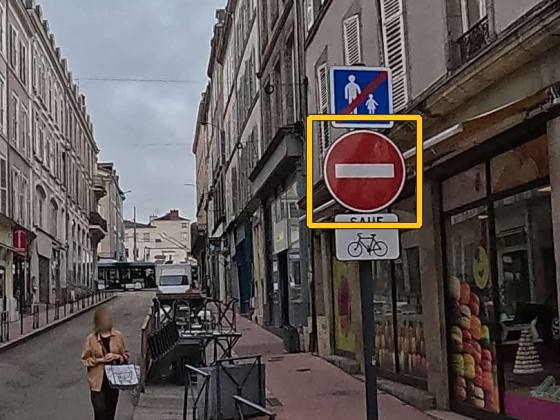
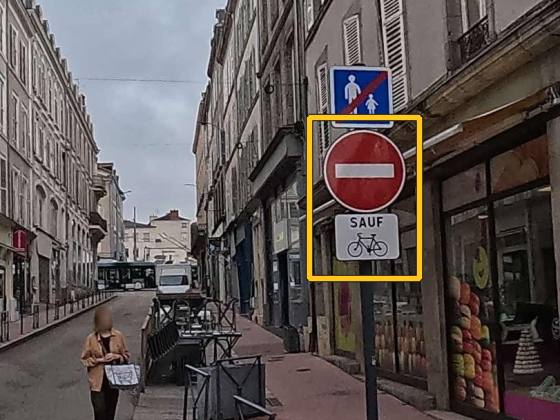
Contrôle des étiquettes étendu à 35 classes, quiz photo : cadre avec panonceau
- 1 616 vignettes corrigées au total (logos, schémas de giratoire, autres panneaux) dans 35 classes.
- tools/corriger_vignettes.py : refait les vignettes miroir des voies de détresse (C26a / C26b).
- tools/photos_quiz.py : liste des codes écartés à la relecture, cadre étendu au panonceau pour les
  panneaux composés, noms d'auteur en forme d'adresse électronique réduits à l'organisme.

Claude-Session: https://claude.ai/code/session_01FHFHQA5YdP7pX4HmC2foYG

Changed region(s): [[0.5464, 0.5262, 0.7589, 0.681]]

diff --git a/tools/photos_quiz.py b/tools/photos_quiz.py
@@ -47,8 +47,9 @@ def candidats(vues):
     return out
 
 
-def cadrer(m, img, i, rng):
-    """Scène 4:3 autour du panneau i (il occupe 12 à 20 % de la largeur), panneau entouré de jaune."""
+def cadrer(m, img, i, rng, panonceau=False):
+    """Scène 4:3 autour du panneau i (il occupe 12 à 20 % de la largeur), panneau entouré de jaune
+    (avec son panonceau, juste dessous, quand la question porte sur l'ensemble)."""
     x1, y1, x2, y2 = m["annots"][i]["box"]
     c = max(x2 - x1, y2 - y1)
     w = min(c * rng.uniform(5.0, 7.5), m["w"], m["h"] * 4 / 3)
@@ -60,7 +61,7 @@ def cadrer(m, img, i, rng):
     out = cv2.resize(img[Y : Y + int(h), X : X + int(w)], (L, H), interpolation=cv2.INTER_AREA)
     marge = 0.12 * c
     p1 = (int((x1 - marge - X) * e), int((y1 - marge - Y) * e))
-    p2 = (int((x2 + marge - X) * e), int((y2 + marge - Y) * e))
+    p2 = (int((x2 + marge - X) * e), int((y2 + marge + (0.6 * c if panonceau else 0) - Y) * e))
     cv2.rectangle(out, p1, p2, (20, 20, 20), 5, cv2.LINE_AA)
     cv2.rectangle(out, p1, p2, (30, 198, 255), 3, cv2.LINE_AA)
     return out
@@ -108,14 +109,15 @@ def main():
                 k, p = cls(img, np.array([m["annots"][i]["box"]], np.float32))
                 if k[0] != BY_CODE[code] or p[0] < 0.9:
                     continue
-            scene = cadrer(m, img, i, rng)  # toujours calculée : le tirage reste le même quels que soient les codes écartés
+            scene = cadrer(m, img, i, rng, "_M" in code)  # toujours calculée : le tirage reste le même quels que soient les codes écartés
             sequences.add(seq)
             pris += 1
             if code in sauf:
                 continue
             nom = f"{len(photos) + 1:03d}.jpg"
             cv2.imwrite(str(out / "photos" / nom), scene, [cv2.IMWRITE_JPEG_QUALITY, 72])
-            photos.append({"f": nom, "code": code, "auteur": m["producteur"], "date": m["date"], "source": m["source"]})
+            auteur = m["producteur"].split("@")[-1]  # un nom de compte en forme d'adresse électronique : on ne garde que l'organisme
+            photos.append({"f": nom, "code": code, "auteur": auteur, "date": m["date"], "source": m["source"]})
     (out / "photos.json").write_text(json.dumps({"licence": "Licence Ouverte 2.0 (Etalab)", "origine": "Panoramax, instance IGN", "photos": photos}, ensure_ascii=False, separators=(",", ":")), encoding="utf-8")
     taille = sum(f.stat().st_size for f in (out / "photos").glob("*.jpg")) // 1024
     print(f"{len(photos)} photos de {len({p['code'] for p in photos})} panneaux différents ({taille} Ko) -> {out / 'photos'}")
